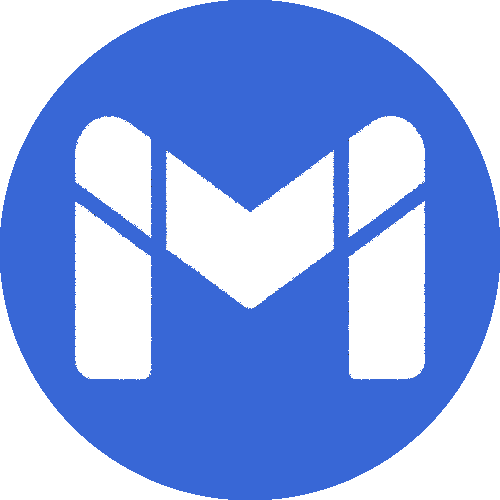
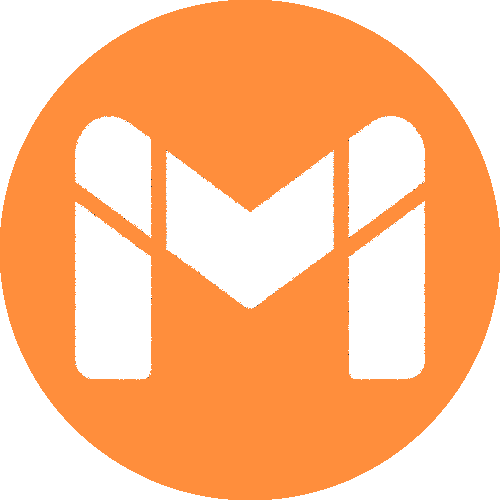
new color

diff --git a/newstyle.css b/newstyle.css
@@ -22,14 +22,18 @@
     color: var(--_primary_color);
 }
 body.open{
-    --bg_color: #212121;
-    --card_color: #303030;
+    --bg_color: #0f0e17;
     --navbar_color: #000000;
-    --primary_color: rgba(255, 255, 255, 1);
+    --primary_color: #fffffe;
     --secondary_color: #3867d6;
-    --text_color: rgba(255, 255, 255, .7);
+    --text_color: #a7a9be;
     --toggle_position: translateX(31px);
     --load_color: #000000;
+    --title_color: #fffffe;
+    --p_color: #a7a9be;
+    --tag_color: #ff8906;
+    --card_shadow: rgba(0, 0, 0, 0.6);
+
   
 }
 body{
@@ -37,10 +41,14 @@ body{
     --_secondary_color: var(--secondary_color, #3867d6);
     --_text_color: var(--text_color, rgba(0, 0, 0, .54));
     --_bg_color: var(--bg_color, #F5F5F5);
-    --_navbar_color: var(--navbar_color, #E0E0E0);
-    --_card_color: var(--card_color, #FAFAFA);
+    --_navbar_color: var(--navbar_color, #eff0f3);
     --_toggle_position: var(--toggle_position, translateX(0));
     --_load_color: var(--load_color,#ffffff);
+    --_title_color: var(--title_color, #0d0d0d);
+    --_p_color: var(--p_color, #2a2a2a);
+    --_tag_color: var(--tag_color,#ff8e3c);
+    --_card_shadow: var(--card_shadow, rgba(0, 0, 0, 0.3));
+
     background: var(--_bg_color);
 }
 #loading_screen{
@@ -98,9 +106,15 @@ html {
     display: flex;
 }
 a{
-    color: var(--_primary_color);
+    color: var(--_title_color);
     text-decoration: none;
-    text-decoration-color: var(--_primary_color);
+}
+a:hover{
+    text-decoration: underline;
+    text-underline-offset: .5rem;
+    text-decoration-color: var(--_tag_color);
+
+    
 }
 .theme-switch-con{
     display: grid;
@@ -227,7 +241,7 @@ a{
 }
 .section_title,.section_title_me{
     font-size: var(--title_font_size);
-    color: var(--_secondary_color);
+    color: var(--_title_color);
     padding-bottom: clamp(1rem,2vw,2rem);
 }
 .section_title_me{
@@ -250,11 +264,12 @@ a{
     background-color: var(--_bg_color);
     height: clamp(440px, 100vh, 600px);
     height: clamp(440px, 100svh, 700px);
+    gap: 4rem;
 
 }
 .home_pic{
-    height: 450px;
-    width: 450px;
+    height: 350px;
+    width: 350px;
 }
 .home_details_card {
     align-self: center;
@@ -267,19 +282,19 @@ a{
 }
 .home_text_p1 {
     text-align: center;
-    color: var(--_text_color);
+    color: var(--_p_color);
     font-size: clamp(14px,1.25vw,18px);
 }
 #home_text_p2 {
     margin-bottom: 1.5rem;
-    color: var(--_secondary_color);
+    color: var(--_p_color);
     height: 1.75rem;
     font-size: clamp(21px,2.5vw,27px);
 }
 .title {
     font-size: clamp(35px,5vw,45px);
     text-align: center;
-    color: var(--_primary_color);
+    color: var(--_title_color);
 }
 
 #socmed_card {
@@ -333,7 +348,7 @@ a{
     width: 24.2rem;
     height: 24.2rem;
     border-radius: 10px;
-    background: var(--_card_color);
+    background: var(--_bg_color);
     /*box-shadow: -1rem 1rem 3rem #01fff4;*/
     display: grid;
     align-items: center;
@@ -342,7 +357,7 @@ a{
     clear: both;
     position: relative;
     grid-template-rows: 5fr 1fr 3fr 1fr;
-    box-shadow: 0 5px 10px rgba(0, 0, 0, 0.3);
+    box-shadow: 0 5px 10px var(--_card_shadow);
     margin: .5rem;
 }
 .card-header {
@@ -353,7 +368,7 @@ a{
     font-size: var(--m);
     text-decoration: none;
     cursor: pointer;
-    color: var(--_primary_color);
+    color: var(--_title_color);
     margin: .5vw;
 }
 .card p{
@@ -361,7 +376,7 @@ a{
     margin: 0 1rem 0 1rem;
     align-self: flex-start;
     text-indent: 2em;
-    color: var(--_text_color);
+    color: var(--_p_color);
 }
 .project_img{
     width: 100%;
@@ -388,13 +403,13 @@ a{
 }
 .tags a {
     font-size: .3rem;
-    color: var(--_primary_color);
+    color: #fffffe;
     text-transform: uppercase;
     font-size: .66rem;
-    border: 2px solid var(--_secondary_color);
     border-radius: 2rem;
     padding: .2rem .85rem .25rem;
     position: relative;
+    background-color: var(--_tag_color);
 }
 .tags img{
     height: 1.6rem;
@@ -449,26 +464,26 @@ a{
     place-items: start;
     gap: 2rem;
     max-width: 75.75rem;
-    background-color: var(--_card_color);
+    background-color: var(--_bg_color);
     padding: 1.5rem;
     border-radius: .8rem;
     margin: 1rem;
-    box-shadow: 0 5px 10px rgba(0, 0, 0, 0.3);
+    box-shadow: 0 5px 10px var(--_card_shadow);
 }
 .exp_details h1{
     font-size: var(--l);
     margin-bottom: 1rem;
-    color: var(--_primary_color);
+    color: var(--_title_color);
 }
 .exp_details h2{
     font-size: var(--m);
     margin-bottom: 1rem;
-    color: var(--_primary_color);
+    color: var(--_title_color);
 }
 .exp_details p{
     font-size: var(--s);
     text-indent: 2em;
-    color: var(--_text_color);
+    color: var(--_p_color);
 }
 .slide-up{
     transform: translateY(-6rem);
@@ -498,11 +513,11 @@ a{
 .about_pic img{
     width: 18.75rem;
     height: 25rem;
-    border: var(--_text_color) 2px solid;
+    border: var(--_p_color) 2px solid;
     border-radius: 2rem;
 }
 .about_bg{
-    border: var(--_text_color) 2px solid;
+    border: var(--_p_color) 2px solid;
     border-radius: 2rem;
     padding: 2rem;
     flex: 1;
@@ -510,12 +525,12 @@ a{
     flex-direction: column;
 }
 .about_bg h1{
-    color: var(--_primary_color);
+    color: var(--_title_color);
     font-size: var(--l);
     
 }
 .about_bg p{
-    color: var(--_text_color);
+    color: var(--_p_color);
     font-size: var(--s);
 }
 .about_icon{
@@ -525,7 +540,7 @@ a{
 
 .about_text p{
     text-indent: 3em;
-    color: var(--_text_color);
+    color: var(--_p_color);
     font-size: var(--s);
 }
 /*                      SKILLS                        */
@@ -549,7 +564,7 @@ a{
     align-items: center;
     width: 30vw;
     gap: 2rem;
-    border: var(--_text_color) 2px solid;
+    border: var(--_p_color) 2px solid;
     border-radius: 2rem;
     padding: 2rem;
     max-width: 55rem;
@@ -557,7 +572,7 @@ a{
 
 }
 .skills h4{
-    color: var(--_primary_color);
+    color: var(--_title_color);
     font-size: var(--l);
 }
 .skill{
@@ -576,15 +591,15 @@ a{
     gap: 0.5rem;
 }
 .skill article h3{
-    color: var(--_primary_color);
+    color: var(--_title_color);
     font-size: var(--m);
 }
 .skill article h5{
-    color: var(--_text_color);
+    color: var(--_title_color);
     font-size: var(--s);
 }
 .skill article p{
-    color: var(--_text_color);
+    color: var(--_p_color);
     font-size: var(--s);
 }
 .icon, .contact_icon{
@@ -609,15 +624,15 @@ a{
 }
 .contact_details{
     font-size: var(--m);
-    color: var(--_primary_color);
+    color: var(--_title_color);
 }
 .contact_sub_details{
     font-size: var(--ss);
-    color: var(--_text_color);
+    color: var(--_p_color);
 }
 footer {
     background-color: var(--_bg_color);
-    color: var(--_primary_color);
+    color: var(--_p_color);
 }
 .footer_con{
     padding: 1rem;
@@ -638,7 +653,7 @@ footer p {
     display: flex;
     justify-content: center;
     margin: 1rem;
-    color: var(--_primary_color);
+    color: var(--_p_color);
 }
 .nav_footer_links li{
     font-size: var(--m);

diff --git a/newscript.js b/newscript.js
@@ -26,7 +26,11 @@ const elements = {
   loading_screen: document.getElementById('loading_screen'),
   loading: document.getElementById('loading'),
   loaded: document.getElementById('loaded'),
-  profile: document.getElementById('about_profile')
+  profile: document.getElementById('about_profile'),
+  ghIcons: document.getElementsByClassName('github_icon'),
+  eyeIcons: document.getElementsByClassName('eye_icon'),
+  profileIcons: document.getElementById('socmed_card').getElementsByTagName('img'),
+  contactIcons: document.getElementById('contact_strip').getElementsByTagName('img')
 };
 AOS.init({
   disable: false,
@@ -62,11 +66,28 @@ function changeImages(logo, home, nav, slogo, prof, load) {
   elements.loading.src = load;
 }
 
+function changeImagesArray(images, imagePaths) {
+  for (let i = 0; i < images.length; i++) {
+    if (imagePaths[i]) {
+      images[i].src = imagePaths[i];
+    }
+  }
+}
+
 function applyTheme(logo, neon, backgroundColor, switchIcon, prof, load, themeName) {
   changeImages(logo, neon, backgroundColor, switchIcon, prof, load);
+  changeImagesArray(elements.profileIcons, ['assets/linkedin.png', 'assets/github.png', 'assets/gmail.png']);
+  changeImagesArray(elements.contactIcons, ['assets/gmail.png', 'assets/phone.png', 'assets/linkedin.png', 'assets/facebook.png']);
+  changeImagesArray(elements.ghIcons, Array(3).fill('assets/github.png'));
+  changeImagesArray(elements.eyeIcons, Array(3).fill('assets/eye.png'));
 
   if (themeName === 'dark') {
     elements.theme.classList.add("open");
+    changeImagesArray(elements.profileIcons, ['assets/linkedin_dark.png', 'assets/github_dark.png', 'assets/gmail_dark.png']);
+    changeImagesArray(elements.contactIcons, ['assets/gmail_dark.png', 'assets/phone_dark.png', 'assets/linkedin_dark.png', 'assets/facebook_dark.png']);
+    changeImagesArray(elements.ghIcons, Array(3).fill('assets/github_dark.png'));
+    changeImagesArray(elements.eyeIcons, Array(3).fill('assets/eye_dark.png'));
+
   }
 }
 
@@ -170,7 +191,7 @@ function slideDown(){
   if (theme.classList.contains("open")) {
     tabContainer.style.background = '#000000';
   }else{
-    tabContainer.style.background = '#E0E0E0';
+    tabContainer.style.background = '##eff0f3';
   }
 }
 
@@ -182,7 +203,7 @@ function slideUp(){
   if (theme.classList.contains("open")) {
     tabContainer.style.background = '#000000';
   }else{
-    tabContainer.style.background = '#E0E0E0';
+    tabContainer.style.background = '##eff0f3';
   }
 }
 
